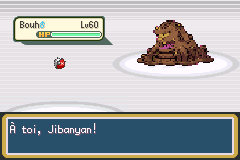
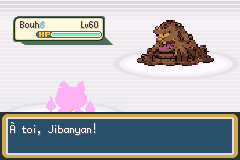
Publish final Mafia mGBA regression evidence and outstanding art approvals

Changed region(s): [[0.0, 0.0, 1.0, 0.0938], [0.0292, 0.5, 0.525, 0.7188], [0.2042, 0.3438, 0.2917, 0.4375]]

diff --git a/QA_RECETTE_FINALE/MAFIAMILLE_KANTO/BILAN.md b/QA_RECETTE_FINALE/MAFIAMILLE_KANTO/BILAN.md
@@ -1,0 +1,143 @@
+# Mafiamille — bilan d’implémentation et validations restantes
+
+Branche **`feature/mafiamille-kanto`**, base
+`6f143452a026a41c08f1db38f9809959809a31b6`. Code livré au jalon
+`1fa39994b`. Aucun merge. [Autorisation](../../docs/mafiamille/MANDAT.md).
+
+**L’adaptation fonctionnelle et textuelle est intégrée. La disparition visuelle
+complète de la Team Rocket reste en attente du choix de symbole : quatre
+ressources contiennent encore un R. Les marches attendent leur validation
+artistique, malgré leurs contrôles techniques réussis.**
+
+## Ce qui est réellement intégré
+
+- 69 acteurs de l’histoire : 65 sbires, le recruteur du Pont Pépite et les trois
+  apparitions de Giovanni. Les identifiants sauvegardés sont conservés, mais
+  renvoient aux graphismes Mafiamille/Don. Le groupe postgame est conservé.
+- Un seul dessin de sbire sur les cartes, avec neuf images directionnelles ;
+  quatre orientations, l’est étant retourné par le moteur. Don possède également
+  neuf images. Les trois poses initiales correspondent exactement aux pixels
+  de la base ; récupération sélective de `740c257b2`, sans ses scènes.
+- 53 fiches Rocket : portraits répartis **18/18/17** entre les trois modèles.
+  Le nº22 reste inutilisé, sans nouvelle rencontre inventée. Les trois anciens
+  identifiants de portraits sont aussi raccordés aux nouveaux pixels/palettes
+  pour les chemins de compatibilité. Aucune variante féminine créée.
+- 27 équipes ordinaires, deux administrateurs et deux sbires postgame modifiés
+  selon les compositions approuvées : **31 équipes**. Les niveaux, effectifs,
+  IV, objets, IA et classes économiques restent conservés. Capacités des membres
+  de ces équipes prises dans les apprentissages validés au niveau concerné.
+- Les trois équipes principales de Don sont inchangées, comme son équipe bonus.
+  Tous les autres tableaux d’équipes restent identiques à la base.
+- Affichage « SBIRE MAFIAMILLE », y compris pour les trois caméos : un choix
+  de libellé dans l’expansion du texte de combat conserve leur classe économique
+  de TOPDRESSEUR. Aucun changement du calcul des récompenses.
+- **254 dialogues de cartes réécrits**, plus **22 entrées Memorydex** ; libellés
+  de lieux, journal de reprise, Clé Ascenseur et sources de traduction adaptés.
+  Les commandes musicales, variables et contrôles intégrés sont préservés.
+- Don arrête ses opérations à Kanto ; les sbires de Sevii découvrent son ordre
+  de retrait. La famille et le défi postgame subsistent. Aucune filiation avec
+  un enfant de Giovanni n’est inventée, aucun nouvel arc majeur ajouté.
+
+Inventaires : [69 acteurs](ACTEURS_69.csv), [60 fiches :53 Rocket +3 Don +4 caméos](ADVERSAIRES_60.csv),
+[équipes approuvées appliquées](EQUIPES_APPROUVEES.json), [dialogues avant/après](DIALOGUES.json).
+
+## Corrections techniques localisées
+
+Le champ dresseur conserve ses12octets. Les combats affichent « D. Morléone » ;
+les dialogues et notices compatibles utilisent « Don Morléone ». Un nom complet
+nécessiterait un traitement spécifique des chaînes de combat et de leurs
+consommateurs ; aucune extension risquée de structure n’a été appliquée.
+La liste étroite du Memorydex affiche « Morléone » (45pixels pour56 disponibles).
+
+Les deux nouveaux noms de lieux dépassaient les104pixels des bandeaux d’entrée.
+Ils utilisent uniquement dans ces deux bandeaux la petite police native, avec
+le nom complet. Les autres lieux gardent leur police. Aucun script de carte,
+condition de progression, position, déplacement scénaristique ou énigme changé.
+
+## Vérifications mGBA
+
+| Contrôle | Résultat et portée |
+|---|---|
+| Acteurs | 69/69 dans la ROM publique et69/69 dans la privée : vrais objets des cartes, tables graphiques et palettes relues |
+| Équipes | 639 équipes et1649 créatures instanciées par le moteur ; espèces, niveaux, capacités, talents, objets et sacs vérifiés. Ce ne sont pas639 combats joués |
+| Marches | Deux modèles, quatre directions chacun ; neuf images liées et cycles réellement observés en VRAM, palettes et transparence vérifiées ; entrées de combat capturées |
+| Portraits historiques | Trois anciens identifiants : décompression native des pixels et palettes correspondant aux remplacements |
+| Noms de sbires | Expansion native « SBIRE MAFIAMILLE » pour sbires ordinaires, administrateur et les trois caméos ; classes économiques inchangées |
+| Dialogues | 276 premières pages rendues par le moteur ; largeur des254 textes de carte contrôlée à208pixels, variables bornées et commandes préservées |
+| Memorydex | Vrai menu ouvert et Don sélectionné par contrôleur ; noms et sources contrôlés dans leurs limites natives |
+| Principaux événements | 21 cas : victoires au Mont Sélénite, Azuria, Pont Pépite, Casino, repaire, Tour, Jadielle, Mont Braise, Îles5/6 ; administrateurs et Gideon ; deux approches coordonnées de Don à la Sylphe ; scène d’Olga ; Fuji et Pokéflûte ; sac plein et sauvegarde |
+| Récompenses complémentaires | Président : Master Ball unique ; affiche du Casino : ouverture des escaliers ; porte de l’entrepôt : second mot de passe nécessaire puis véritable entrée par la porte |
+| Postgame | Deux groupes testés : prérequis, refus, victoires, défaites sans fausse récompense, sac plein puis récupération, revanches et sauvegarde/rechargement Flash |
+| Musiques |26 formes d’onde privées, en-têtes et boucles comparés octet par octet à la ROM de référence ; gains et73 alias identiques |
+
+Les récompenses effectivement exercées comprennent CT28, Pépite, Clé Ascenseur,
+Scope Sylphe, Badge Terre/CT26, Pokéflûte, Saphir, Master Ball et trois Pépites
+postgame. Les tests utilisent des parties initialisées par contrôleur, puis
+les téléportations et flags de progression nécessaires ; les victoires sont
+obtenues par contrôleur avec une équipe renforcée en mémoire. Les adversaires,
+programmes d’événement et résultats de combat ne sont pas falsifiés.
+
+**Limites :** pas de traversée continue de toute l’aventure, pas de validation
+de difficulté avec une équipe normale, pas de contrôle manuel de toutes les
+pages des276 textes. Les captures de dialogues sont des premières pages,
+pas des preuves de lecture intégrale. Les fixtures ne prouvent pas le parcours
+normal de toutes les salles et énigmes. Aucune écoute humaine revendiquée.
+Les premiers essais du pilote ont nécessité de corriger ses hypothèses de
+sélection de dresseur et d’arrêt des entrées après dialogue ; aucun programme
+d’événement n’a été changé pour faire passer ces tests.
+
+Preuves : [événements](evenements/TEST_MGBA.json), [récompenses](recompenses/TEST_MGBA.json),
+[postgame](POSTGAME_MGBA.json), [équipes natives](EQUIPES_MGBA.json),
+[acteurs publics](acteurs/TEST_MGBA.json), [acteurs privés](acteurs-prive/TEST_MGBA.json),
+[marches](marche/TEST_MGBA.json), [Memorydex](memorydex/TEST_MGBA.json),
+[noms](NOMS_MGBA.json), [compatibilité](COMPAT_MGBA.json),
+[texte](dialogues/TEST_MGBA.json), [intégrité](PRESERVATION.json),
+[audio et compilations](AUDIO_COMPILATION.json).
+
+![Captures réelles des trois sbires et de Don](COMBATS_MGBA.png)
+
+## Compilation et protection
+
+- ROM publique : **16 777 216 octets**.
+- ROM privée de cette branche : **31 589 579 octets**, environ30,13Mio.
+- Marge sous32Mio : **1 964 853 octets**.
[2 lines of base64/hex data omitted]
+- **1776 fichiers protégés identiques**, dont graphismes des151 Yo-kai,
+  données d’espèces/évolutions et ressources sonores. Les425 programmes de
+  scripts de cartes restent identiques ; seule la ressource graphique du
+  recruteur change dans son `map.json`.
+- La branche audio reste à `837bd1757a7c2cdc2d476c3a5eacfd6296177c6a`, sans
+  modifications. Cette branche conserve les26 OST de sa base, sans fusion des31.
+- Aucune ROM, aucun audio privé publié. Les sources, PNG natifs, outils et
+  preuves non audio sont sauvegardés sur GitHub.
+
+Construction : environnement/toolchain habituel du dépôt, puis `make -j6`.
+Profil privé : `make -j6 YOKAI_AUDIO_DIR=/chemin/vers/les/26/ressources-privees`.
+Les feuilles de marche sont directement sauvegardées : la compilation n’a pas
+besoin de récupérer un ancien environnement ou de relancer les outils d’auteur.
+La réapplication des outils d’auteur sélectifs nécessite l’historique Git cité.
+Un nouveau clone propre n’a pas été recompilé pendant cette mission.
+
+## Validations artistiques encore requises
+
+1. **Marches :** [Don, sud](marche/don_morleone-sud-marche.gif),
+   [nord](marche/don_morleone-nord-marche.gif), [ouest](marche/don_morleone-ouest-marche.gif),
+   [est](marche/don_morleone-est-marche.gif) ; [sbire, sud](marche/mafiamille_1-sud-marche.gif),
+   [nord](marche/mafiamille_1-nord-marche.gif), [ouest](marche/mafiamille_1-ouest-marche.gif),
+   [est](marche/mafiamille_1-est-marche.gif). Fonctionnelles, non déclarées définitives artistiquement.
+2. **Symboles :** [trois concepts A/B/C](../../docs/mafiamille/casino/README.md).
+   Ce sont des concepts, pas des fichiers natifs importables. Aucun n’est lié.
+   Les R subsistent dans les rouleaux, le tableau des gains et les deux
+   illustrations d’entrée. Après choix, préparer les ressources natives et
+   aperçus en situation avant leur intégration.
+
+Les [captures d’entrée du repaire](entrees/RocketHideout_B1F.png) et
+[de l’entrepôt](entrees/FiveIsland_RocketWarehouse.png) montrent réellement
+les R restants dans mGBA. La porte de l’entrepôt ne porte pas de R. Les captures
+des28 cartes ciblées servent aussi à examiner leurs décors ; chaque pixel de
+tous les tilesets partagés n’a pas été certifié individuellement.
+
+**La mission n’est pas déclarée entièrement terminée tant que ces validations
+et les remplacements des quatre ressources contenant un R restent ouverts.**
+Aucune fusion ou modification de master effectuée.

diff --git a/docs/mafiamille/README.md b/docs/mafiamille/README.md
@@ -23,3 +23,7 @@ Suivi et preuves : `QA_RECETTE_FINALE/MAFIAMILLE_KANTO/`.
 - Les anciens identifiants de portraits Rocket/Giovanni renvoient aussi aux
   nouvelles images et palettes, pour les chemins de compatibilité et de
   classes de la Tour des Dresseurs. Aucun combat ou adversaire n’est ajouté.
+
+## Livraison
+
+[Bilan complet, captures et validations restantes](../../QA_RECETTE_FINALE/MAFIAMILLE_KANTO/BILAN.md).
